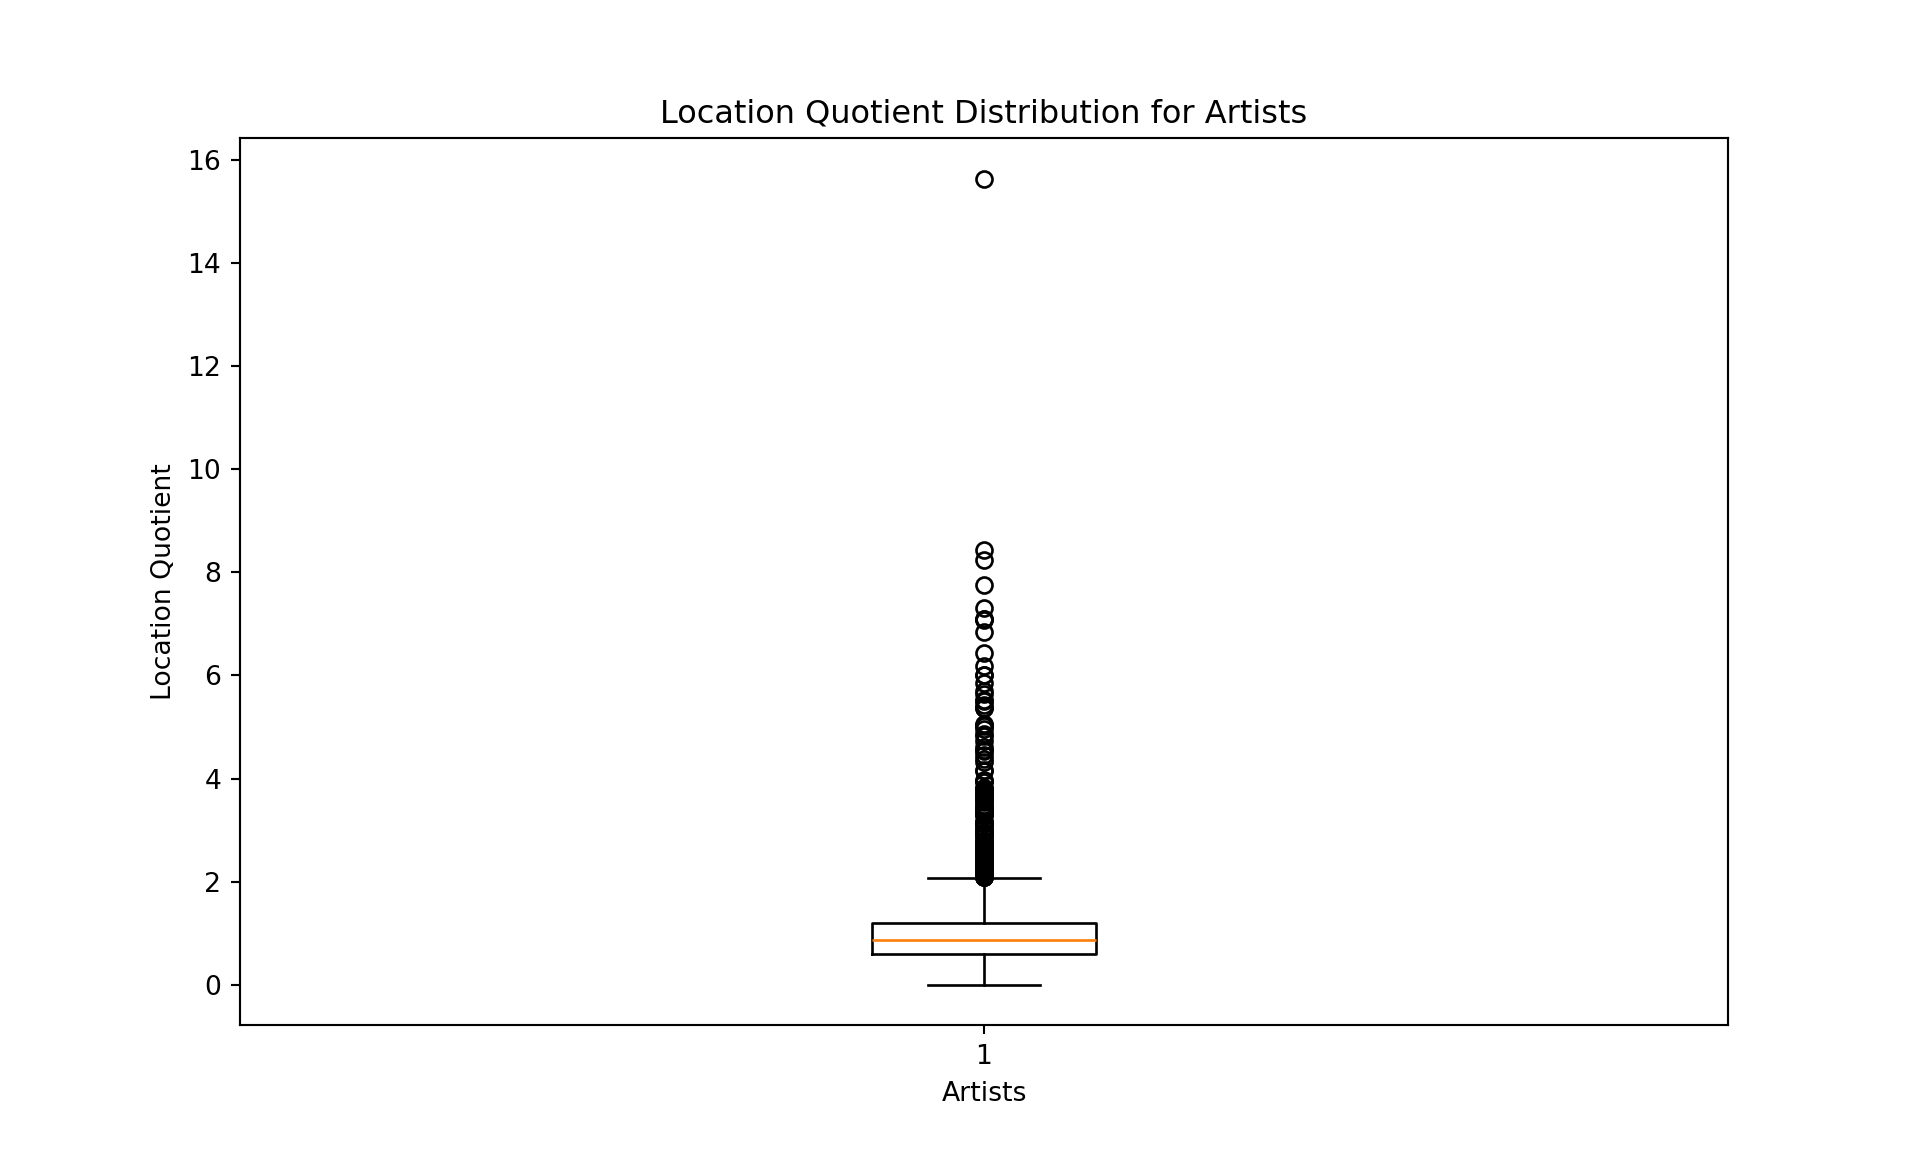
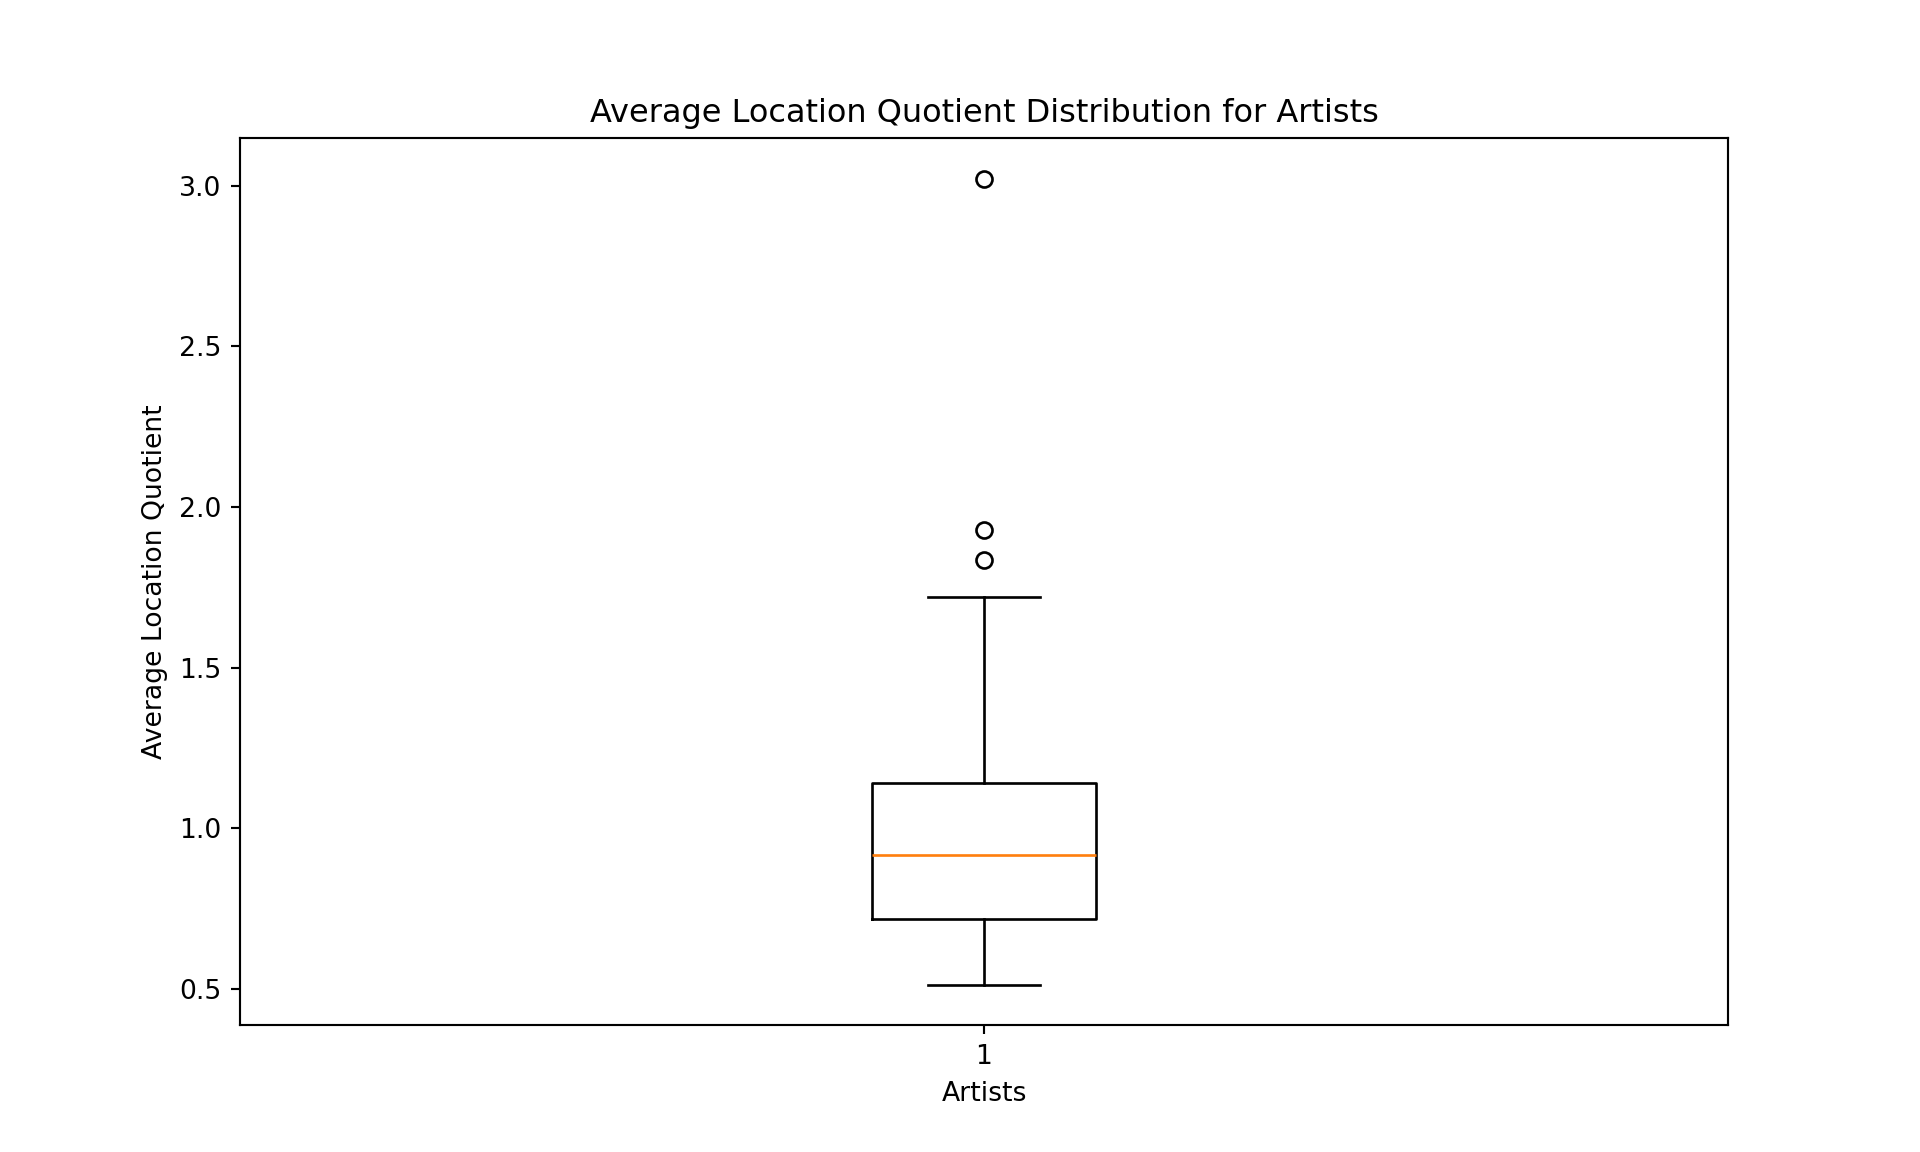
Add question one result

diff --git a/Project.html b/Project.html
@@ -124,46 +124,44 @@ pre > code.sourceCode > span > a:first-child::before { text-decoration: underlin
 <span id="cb3-2"><a href="#cb3-2" aria-hidden="true" tabindex="-1"></a><span class="co">""" Question1: Are there any states with a location quotient significantly below 1.0 for artists?"""</span></span>
 <span id="cb3-3"><a href="#cb3-3" aria-hidden="true" tabindex="-1"></a></span>
 <span id="cb3-4"><a href="#cb3-4" aria-hidden="true" tabindex="-1"></a></span>
-<span id="cb3-5"><a href="#cb3-5" aria-hidden="true" tabindex="-1"></a><span class="co"># Filter the data to include only the relevant columns</span></span></code><button title="Copy to Clipboard" class="code-copy-button"><i class="bi"></i></button></pre></div>
+<span id="cb3-5"><a href="#cb3-5" aria-hidden="true" tabindex="-1"></a><span class="co"># Group by state and calculate the average location quotient for each state</span></span></code><button title="Copy to Clipboard" class="code-copy-button"><i class="bi"></i></button></pre></div>
 <div class="cell-output cell-output-stdout">
 <pre><code>' Question1: Are there any states with a location quotient significantly below 1.0 for artists?'</code></pre>
 </div>
-<div class="sourceCode cell-code" id="cb5"><pre class="sourceCode python code-with-copy"><code class="sourceCode python"><span id="cb5-1"><a href="#cb5-1" aria-hidden="true" tabindex="-1"></a>subset <span class="op">=</span> artist[[<span class="st">'state'</span>, <span class="st">'location_quotient'</span>]]</span>
-<span id="cb5-2"><a href="#cb5-2" aria-hidden="true" tabindex="-1"></a></span>
+<div class="sourceCode cell-code" id="cb5"><pre class="sourceCode python code-with-copy"><code class="sourceCode python"><span id="cb5-1"><a href="#cb5-1" aria-hidden="true" tabindex="-1"></a>average_location_quotient <span class="op">=</span> artist.groupby(<span class="st">'state'</span>)[<span class="st">'location_quotient'</span>].mean().reset_index()</span>
+<span id="cb5-2"><a href="#cb5-2" aria-hidden="true" tabindex="-1"></a><span class="co">#print(average_location_quotient)</span></span>
 <span id="cb5-3"><a href="#cb5-3" aria-hidden="true" tabindex="-1"></a><span class="co"># Visual analysis using a histogram</span></span>
 <span id="cb5-4"><a href="#cb5-4" aria-hidden="true" tabindex="-1"></a>plt.figure(figsize<span class="op">=</span>(<span class="dv">10</span>, <span class="dv">6</span>))</span>
-<span id="cb5-5"><a href="#cb5-5" aria-hidden="true" tabindex="-1"></a>plt.hist(subset[<span class="st">'location_quotient'</span>], bins<span class="op">=</span><span class="dv">20</span>, edgecolor<span class="op">=</span><span class="st">'black'</span>)</span></code><button title="Copy to Clipboard" class="code-copy-button"><i class="bi"></i></button></pre></div>
+<span id="cb5-5"><a href="#cb5-5" aria-hidden="true" tabindex="-1"></a>plt.hist(average_location_quotient[<span class="st">'location_quotient'</span>], bins<span class="op">=</span><span class="dv">20</span>, edgecolor<span class="op">=</span><span class="st">'black'</span>)</span></code><button title="Copy to Clipboard" class="code-copy-button"><i class="bi"></i></button></pre></div>
 <div class="cell-output cell-output-stdout">
-<pre><code>(array([814., 823., 166.,  42.,  25.,  11.,  10.,   8.,   2.,   5.,   2.,
-         0.,   0.,   0.,   0.,   0.,   0.,   0.,   0.,   1.]), array([ 0.        ,  0.78173091,  1.56346182,  2.34519273,  3.12692364,
-        3.90865455,  4.69038547,  5.47211638,  6.25384729,  7.0355782 ,
-        7.81730911,  8.59904002,  9.38077093, 10.16250184, 10.94423275,
-       11.72596366, 12.50769457, 13.28942548, 14.0711564 , 14.85288731,
-       15.63461822]), &lt;BarContainer object of 20 artists&gt;)</code></pre>
+<pre><code>(array([ 5., 11.,  7.,  9.,  5.,  5.,  3.,  1.,  1.,  1.,  1.,  1.,  0.,
+        0.,  0.,  0.,  0.,  0.,  0.,  1.]), array([0.51263112, 0.6380898 , 0.76354848, 0.88900716, 1.01446583,
+       1.13992451, 1.26538319, 1.39084187, 1.51630055, 1.64175922,
+       1.7672179 , 1.89267658, 2.01813526, 2.14359394, 2.26905261,
+       2.39451129, 2.51996997, 2.64542865, 2.77088733, 2.896346  ,
+       3.02180468]), &lt;BarContainer object of 20 artists&gt;)</code></pre>
 </div>
-<div class="sourceCode cell-code" id="cb7"><pre class="sourceCode python code-with-copy"><code class="sourceCode python"><span id="cb7-1"><a href="#cb7-1" aria-hidden="true" tabindex="-1"></a>plt.title(<span class="st">'Histogram of Location Quotients for Artists'</span>)</span>
-<span id="cb7-2"><a href="#cb7-2" aria-hidden="true" tabindex="-1"></a>plt.xlabel(<span class="st">'Location Quotient'</span>)</span>
+<div class="sourceCode cell-code" id="cb7"><pre class="sourceCode python code-with-copy"><code class="sourceCode python"><span id="cb7-1"><a href="#cb7-1" aria-hidden="true" tabindex="-1"></a>plt.title(<span class="st">'Histogram of Average Location Quotients for Artists'</span>)</span>
+<span id="cb7-2"><a href="#cb7-2" aria-hidden="true" tabindex="-1"></a>plt.xlabel(<span class="st">'Average Location Quotient'</span>)</span>
 <span id="cb7-3"><a href="#cb7-3" aria-hidden="true" tabindex="-1"></a>plt.ylabel(<span class="st">'Frequency'</span>)</span>
 <span id="cb7-4"><a href="#cb7-4" aria-hidden="true" tabindex="-1"></a>plt.show()</span>
 <span id="cb7-5"><a href="#cb7-5" aria-hidden="true" tabindex="-1"></a></span>
-<span id="cb7-6"><a href="#cb7-6" aria-hidden="true" tabindex="-1"></a></span>
-<span id="cb7-7"><a href="#cb7-7" aria-hidden="true" tabindex="-1"></a><span class="co"># Visual analysis using a box plot</span></span></code><button title="Copy to Clipboard" class="code-copy-button"><i class="bi"></i></button></pre></div>
+<span id="cb7-6"><a href="#cb7-6" aria-hidden="true" tabindex="-1"></a><span class="co"># Visual analysis using a box plot</span></span></code><button title="Copy to Clipboard" class="code-copy-button"><i class="bi"></i></button></pre></div>
 <div class="cell-output-display">
 <p><img src="Project_files/figure-html/table-setup-py-1.png" class="img-fluid" width="960"></p>
 </div>
 <div class="sourceCode cell-code" id="cb8"><pre class="sourceCode python code-with-copy"><code class="sourceCode python"><span id="cb8-1"><a href="#cb8-1" aria-hidden="true" tabindex="-1"></a>plt.figure(figsize<span class="op">=</span>(<span class="dv">10</span>, <span class="dv">6</span>))</span>
-<span id="cb8-2"><a href="#cb8-2" aria-hidden="true" tabindex="-1"></a>plt.boxplot(subset[<span class="st">'location_quotient'</span>])</span></code><button title="Copy to Clipboard" class="code-copy-button"><i class="bi"></i></button></pre></div>
+<span id="cb8-2"><a href="#cb8-2" aria-hidden="true" tabindex="-1"></a>plt.boxplot(average_location_quotient[<span class="st">'location_quotient'</span>])</span></code><button title="Copy to Clipboard" class="code-copy-button"><i class="bi"></i></button></pre></div>
 <div class="cell-output cell-output-stdout">
-<pre><code>{'whiskers': [&lt;matplotlib.lines.Line2D object at 0x00000000653DC690&gt;, &lt;matplotlib.lines.Line2D object at 0x0000000064D567D0&gt;], 'caps': [&lt;matplotlib.lines.Line2D object at 0x00000000653FBF90&gt;, &lt;matplotlib.lines.Line2D object at 0x00000000653F8390&gt;], 'boxes': [&lt;matplotlib.lines.Line2D object at 0x00000000653CCD50&gt;], 'medians': [&lt;matplotlib.lines.Line2D object at 0x00000000653F9CD0&gt;], 'fliers': [&lt;matplotlib.lines.Line2D object at 0x00000000653DA390&gt;], 'means': []}</code></pre>
+<pre><code>{'whiskers': [&lt;matplotlib.lines.Line2D object at 0x0000000064D39F10&gt;, &lt;matplotlib.lines.Line2D object at 0x00000000655B2C50&gt;], 'caps': [&lt;matplotlib.lines.Line2D object at 0x00000000655B3650&gt;, &lt;matplotlib.lines.Line2D object at 0x00000000655C8150&gt;], 'boxes': [&lt;matplotlib.lines.Line2D object at 0x000000006559DD50&gt;], 'medians': [&lt;matplotlib.lines.Line2D object at 0x00000000655C8BD0&gt;], 'fliers': [&lt;matplotlib.lines.Line2D object at 0x00000000655C9690&gt;], 'means': []}</code></pre>
 </div>
-<div class="sourceCode cell-code" id="cb10"><pre class="sourceCode python code-with-copy"><code class="sourceCode python"><span id="cb10-1"><a href="#cb10-1" aria-hidden="true" tabindex="-1"></a>plt.title(<span class="st">'Location Quotient Distribution for Artists'</span>)</span>
+<div class="sourceCode cell-code" id="cb10"><pre class="sourceCode python code-with-copy"><code class="sourceCode python"><span id="cb10-1"><a href="#cb10-1" aria-hidden="true" tabindex="-1"></a>plt.title(<span class="st">'Average Location Quotient Distribution for Artists'</span>)</span>
 <span id="cb10-2"><a href="#cb10-2" aria-hidden="true" tabindex="-1"></a>plt.xlabel(<span class="st">'Artists'</span>)</span>
-<span id="cb10-3"><a href="#cb10-3" aria-hidden="true" tabindex="-1"></a>plt.ylabel(<span class="st">'Location Quotient'</span>)</span>
+<span id="cb10-3"><a href="#cb10-3" aria-hidden="true" tabindex="-1"></a>plt.ylabel(<span class="st">'Average Location Quotient'</span>)</span>
 <span id="cb10-4"><a href="#cb10-4" aria-hidden="true" tabindex="-1"></a>plt.show()</span>
 <span id="cb10-5"><a href="#cb10-5" aria-hidden="true" tabindex="-1"></a></span>
-<span id="cb10-6"><a href="#cb10-6" aria-hidden="true" tabindex="-1"></a></span>
-<span id="cb10-7"><a href="#cb10-7" aria-hidden="true" tabindex="-1"></a><span class="co"># Statistical analysis using a one-sample t-test</span></span>
-<span id="cb10-8"><a href="#cb10-8" aria-hidden="true" tabindex="-1"></a><span class="co"># Set the significance level for the hypothesis test</span></span></code><button title="Copy to Clipboard" class="code-copy-button"><i class="bi"></i></button></pre></div>
+<span id="cb10-6"><a href="#cb10-6" aria-hidden="true" tabindex="-1"></a><span class="co"># Statistical analysis using a one-sample t-test</span></span>
+<span id="cb10-7"><a href="#cb10-7" aria-hidden="true" tabindex="-1"></a><span class="co"># Set the significance level for the hypothesis test</span></span></code><button title="Copy to Clipboard" class="code-copy-button"><i class="bi"></i></button></pre></div>
 <div class="cell-output-display">
 <p><img src="Project_files/figure-html/table-setup-py-2.png" class="img-fluid" width="960"></p>
 </div>
@@ -171,38 +169,32 @@ pre > code.sourceCode > span > a:first-child::before { text-decoration: underlin
 <span id="cb11-2"><a href="#cb11-2" aria-hidden="true" tabindex="-1"></a>population_mean <span class="op">=</span> <span class="fl">1.0</span>  <span class="co"># The hypothesized mean (1.0)</span></span>
 <span id="cb11-3"><a href="#cb11-3" aria-hidden="true" tabindex="-1"></a></span>
 <span id="cb11-4"><a href="#cb11-4" aria-hidden="true" tabindex="-1"></a><span class="co"># Perform a one-sample t-test</span></span>
-<span id="cb11-5"><a href="#cb11-5" aria-hidden="true" tabindex="-1"></a>t_stat, p_value <span class="op">=</span> stats.ttest_1samp(subset[<span class="st">'location_quotient'</span>], population_mean)</span>
+<span id="cb11-5"><a href="#cb11-5" aria-hidden="true" tabindex="-1"></a>t_stat, p_value <span class="op">=</span> stats.ttest_1samp(average_location_quotient[<span class="st">'location_quotient'</span>], population_mean)</span>
 <span id="cb11-6"><a href="#cb11-6" aria-hidden="true" tabindex="-1"></a></span>
-<span id="cb11-7"><a href="#cb11-7" aria-hidden="true" tabindex="-1"></a><span class="co"># Filter states with location quotient less than 1.0</span></span>
-<span id="cb11-8"><a href="#cb11-8" aria-hidden="true" tabindex="-1"></a>states_below_1 <span class="op">=</span> subset[subset[<span class="st">'location_quotient'</span>] <span class="op">&lt;</span> <span class="fl">1.0</span>]</span>
+<span id="cb11-7"><a href="#cb11-7" aria-hidden="true" tabindex="-1"></a><span class="co"># Filter states with an average location quotient less than 1.0</span></span>
+<span id="cb11-8"><a href="#cb11-8" aria-hidden="true" tabindex="-1"></a>states_below_1 <span class="op">=</span> average_location_quotient[average_location_quotient[<span class="st">'location_quotient'</span>] <span class="op">&lt;</span> <span class="fl">1.0</span>]</span>
 <span id="cb11-9"><a href="#cb11-9" aria-hidden="true" tabindex="-1"></a></span>
 <span id="cb11-10"><a href="#cb11-10" aria-hidden="true" tabindex="-1"></a><span class="co"># Check if the p-value is less than the significance level</span></span>
 <span id="cb11-11"><a href="#cb11-11" aria-hidden="true" tabindex="-1"></a><span class="cf">if</span> p_value <span class="op">&lt;</span> alpha:</span>
-<span id="cb11-12"><a href="#cb11-12" aria-hidden="true" tabindex="-1"></a>    <span class="bu">print</span>(<span class="ss">f"States with a location quotient significantly below 1.0 (p-value: </span><span class="sc">{</span>p_value<span class="sc">:.4f}</span><span class="ss">): </span><span class="sc">{</span><span class="bu">len</span>(states_below_1)<span class="sc">}</span><span class="ss"> states"</span>)</span>
+<span id="cb11-12"><a href="#cb11-12" aria-hidden="true" tabindex="-1"></a>    <span class="bu">print</span>(<span class="ss">f"States with an average location quotient significantly below 1.0 (p-value: </span><span class="sc">{</span>p_value<span class="sc">:.4f}</span><span class="ss">): </span><span class="sc">{</span><span class="bu">len</span>(states_below_1)<span class="sc">}</span><span class="ss"> states"</span>)</span>
 <span id="cb11-13"><a href="#cb11-13" aria-hidden="true" tabindex="-1"></a>    </span>
-<span id="cb11-14"><a href="#cb11-14" aria-hidden="true" tabindex="-1"></a>    <span class="co"># Filter the original dataset based on the states with a significantly lower location quotient than 1.0</span></span>
-<span id="cb11-15"><a href="#cb11-15" aria-hidden="true" tabindex="-1"></a>    filtered_dataset <span class="op">=</span> artist[artist[<span class="st">'state'</span>].isin(states_below_1[<span class="st">'state'</span>])]</span>
-<span id="cb11-16"><a href="#cb11-16" aria-hidden="true" tabindex="-1"></a>    <span class="bu">print</span>(<span class="st">"Filtered Dataset:"</span>)</span>
-<span id="cb11-17"><a href="#cb11-17" aria-hidden="true" tabindex="-1"></a>    <span class="bu">print</span>(filtered_dataset)</span>
-<span id="cb11-18"><a href="#cb11-18" aria-hidden="true" tabindex="-1"></a><span class="cf">else</span>:</span>
-<span id="cb11-19"><a href="#cb11-19" aria-hidden="true" tabindex="-1"></a>    <span class="bu">print</span>(<span class="ss">f"No significant evidence of location quotients below 1.0. Number of states below 1.0: </span><span class="sc">{</span><span class="bu">len</span>(states_below_1)<span class="sc">}</span><span class="ss">"</span>)</span></code><button title="Copy to Clipboard" class="code-copy-button"><i class="bi"></i></button></pre></div>
+<span id="cb11-14"><a href="#cb11-14" aria-hidden="true" tabindex="-1"></a>    <span class="co"># Display a table with states having an average location quotient less than 1.0</span></span>
+<span id="cb11-15"><a href="#cb11-15" aria-hidden="true" tabindex="-1"></a>    table_states_below_1 <span class="op">=</span> states_below_1[[<span class="st">'state'</span>, <span class="st">'location_quotient'</span>]]</span>
+<span id="cb11-16"><a href="#cb11-16" aria-hidden="true" tabindex="-1"></a>    <span class="bu">print</span>(<span class="st">"</span><span class="ch">\n</span><span class="st">Table of States with Average Location Quotient Below 1.0:"</span>)</span>
+<span id="cb11-17"><a href="#cb11-17" aria-hidden="true" tabindex="-1"></a>    <span class="bu">print</span>(table_states_below_1)</span>
+<span id="cb11-18"><a href="#cb11-18" aria-hidden="true" tabindex="-1"></a>    </span>
+<span id="cb11-19"><a href="#cb11-19" aria-hidden="true" tabindex="-1"></a>    <span class="co"># Filter the original dataset based on the states with an average location quotient significantly lower than 1.0</span></span>
+<span id="cb11-20"><a href="#cb11-20" aria-hidden="true" tabindex="-1"></a>    filtered_dataset <span class="op">=</span> artist[artist[<span class="st">'state'</span>].isin(states_below_1[<span class="st">'state'</span>])]</span>
+<span id="cb11-21"><a href="#cb11-21" aria-hidden="true" tabindex="-1"></a>    <span class="bu">print</span>(<span class="st">"</span><span class="ch">\n</span><span class="st">Filtered Dataset:"</span>)</span>
+<span id="cb11-22"><a href="#cb11-22" aria-hidden="true" tabindex="-1"></a>    <span class="bu">print</span>(filtered_dataset)</span>
+<span id="cb11-23"><a href="#cb11-23" aria-hidden="true" tabindex="-1"></a>    </span>
+<span id="cb11-24"><a href="#cb11-24" aria-hidden="true" tabindex="-1"></a>    <span class="co"># Alternatively, you can use display() to show the table</span></span>
+<span id="cb11-25"><a href="#cb11-25" aria-hidden="true" tabindex="-1"></a>    <span class="co"># display(table_states_below_1)</span></span>
+<span id="cb11-26"><a href="#cb11-26" aria-hidden="true" tabindex="-1"></a>    </span>
+<span id="cb11-27"><a href="#cb11-27" aria-hidden="true" tabindex="-1"></a><span class="cf">else</span>:</span>
+<span id="cb11-28"><a href="#cb11-28" aria-hidden="true" tabindex="-1"></a>    <span class="bu">print</span>(<span class="ss">f"No significant evidence of average location quotients below 1.0. Number of states below 1.0: </span><span class="sc">{</span><span class="bu">len</span>(states_below_1)<span class="sc">}</span><span class="ss">"</span>)</span></code><button title="Copy to Clipboard" class="code-copy-button"><i class="bi"></i></button></pre></div>
 <div class="cell-output cell-output-stdout">
-<pre><code>States with a location quotient significantly below 1.0 (p-value: 0.0007): 1186 states
-Filtered Dataset:
-           state      race  ... artists_share  location_quotient
-0        Alabama  Hispanic  ...      0.000510           0.875352
-1         Alaska  Hispanic  ...      0.000558           0.957214
-2        Arizona  Hispanic  ...      0.000261           0.448099
-4     California  Hispanic  ...      0.000518           0.888412
-5       Colorado  Hispanic  ...      0.000336           0.576934
-...          ...       ...  ...           ...                ...
-3372        Utah     Other  ...      0.000604           0.492364
-3373     Vermont     Other  ...      0.003390           2.765584
-3374    Virginia     Other  ...      0.001009           0.823161
-3375  Washington     Other  ...      0.001140           0.930011
-3377   Wisconsin     Other  ...      0.000897           0.731483
-
-[1909 rows x 7 columns]</code></pre>
+<pre><code>No significant evidence of average location quotients below 1.0. Number of states below 1.0: 32</code></pre>
 </div>
 </div>
 <ul>
